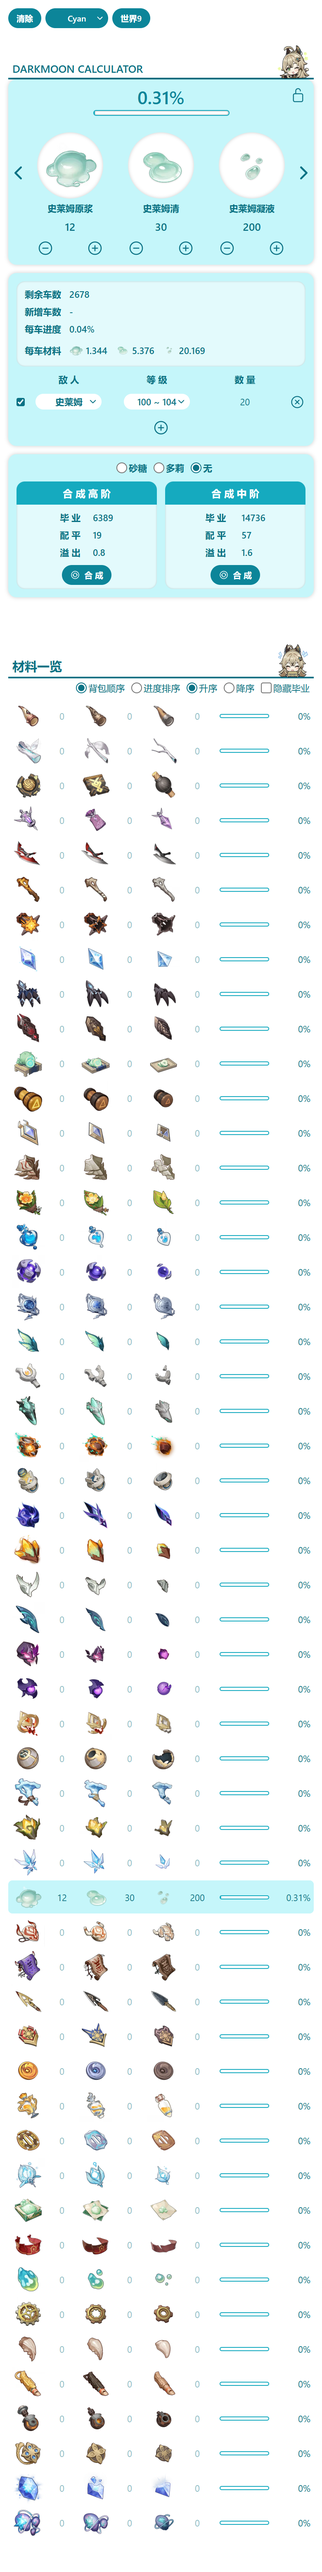
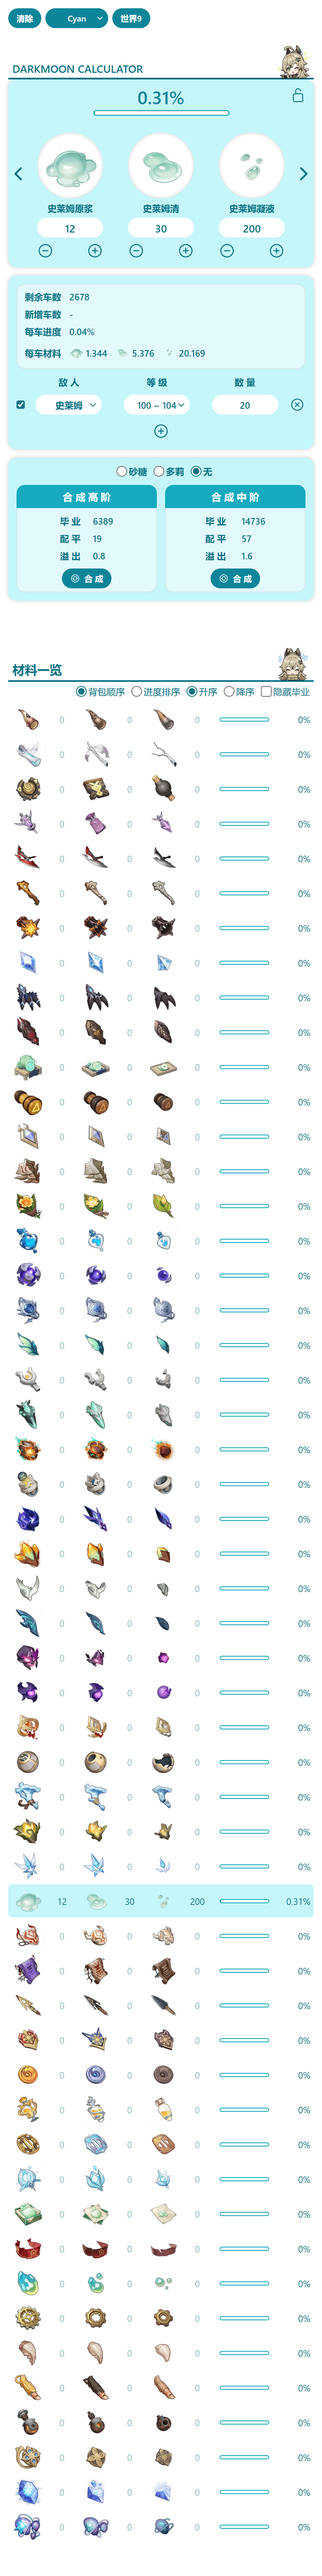
左侧输入框统一成白色胶囊
之前数字输入框是透明的（只有聚焦时出现一圈阴影），下拉框却是白色胶囊，
同一行「敌人 / 等级 / 数量」里出现两种控件形态。

- 新增 components/ui/fieldStyles.ts：
  panelField（白底胶囊、24px 高、主题色聚焦环）给材料数量和敌人数量用，
  与 Select 的 plain 形态完全一致；
  cellField（透明、4px 圆角、hover/focus 才亮）留给材料一览的 38px 窄格
- 实测三种控件统一为 24px 高：材料输入 80x24、敌人输入 100x24、下拉 100x24
- 1280x900 下左侧内容 794px 正好填满可用高度，仍不滚动；1280x700 才滚

diff --git a/src/components/ui/fieldStyles.ts b/src/components/ui/fieldStyles.ts
@@ -1,0 +1,23 @@
+/**
+ * 输入框样式。
+ *
+ * 和 `Select` 共用同一套外观：白底胶囊、24px 高、主题色描边聚焦环，
+ * 这样面板里的「敌人 / 等级 / 数量」三者看起来才是一个控件组。
+ */
+
+/** 面板里的数字输入框（材料数量、敌人数量） */
+export const panelField =
+  "h-[24px] rounded-full border-none bg-white px-[10px] " +
+  "text-center font-semibold text-c9 " +
+  "focus:shadow-[0_0_0_1px_var(--color-6)] focus:outline-none";
+
+/**
+ * 材料一览行内的紧凑输入框。
+ *
+ * 列表一格只有 38px 宽，做成白胶囊会糊成一片，所以保持透明，
+ * 用 hover / 聚焦的背景和描边来提示可编辑。
+ */
+export const cellField =
+  "h-[19px] rounded-[4px] border-none bg-transparent px-[2px] " +
+  "text-center text-[11px] text-c9 transition-colors " +
+  "hover:bg-c0 focus:bg-white focus:shadow-[0_0_0_1px_var(--color-6)] focus:outline-none";

diff --git a/src/components/MaterialList.tsx b/src/components/MaterialList.tsx
@@ -9,6 +9,7 @@ import {
   useListRows,
 } from "../store/selectors";
 import { NumberInput } from "./NumberInput";
+import { cellField } from "./ui/fieldStyles";
 import { ProgressBar } from "./ui/ProgressBar";
 
 export function MaterialList() {
@@ -178,7 +179,7 @@ export function MaterialList() {
                         next[index] = value;
                         setNumbersFor(row.id, next);
                       }}
-                      className="pointer-events-auto mx-[2px] w-[38px] rounded-[4px] border-none bg-transparent py-[2px] text-center text-[11px] text-c9 transition-colors hover:bg-c0 focus:bg-white focus:shadow-[0_0_0_1px_var(--color-6)] focus:outline-none"
+                      className={`pointer-events-auto mx-[2px] w-[38px] ${cellField}`}
                     />
                   </Fragment>
                 ))}

diff --git a/src/components/MaterialPanel.tsx b/src/components/MaterialPanel.tsx
@@ -16,6 +16,7 @@ import {
   useProgressValue,
 } from "../store/selectors";
 import { NumberInput } from "./NumberInput";
+import { panelField } from "./ui/fieldStyles";
 import { iconButton } from "./ui/buttonStyles";
 import { ProgressBar } from "./ui/ProgressBar";
 
@@ -113,7 +114,7 @@ export function MaterialPanel() {
               value={numbers[index]}
               onCommit={(value) => setNumberAt(index, value)}
               ariaLabel={`${names[index]} 数量`}
-              className="w-[80px] rounded-full border-none py-[2px] text-center text-[13px] font-semibold text-c9 focus:shadow-[0_0_2px_var(--color-9)] focus:outline-none"
+              className={`${panelField} w-[80px] text-[13px]`}
             />
 
             <div className="flex w-[80px] items-center justify-between">

diff --git a/src/components/EnemySection.tsx b/src/components/EnemySection.tsx
@@ -11,6 +11,7 @@ import {
   useEnemyStats,
 } from "../store/selectors";
 import { NumberInput } from "./NumberInput";
+import { panelField } from "./ui/fieldStyles";
 import { Select } from "./ui/Select";
 import { iconButton } from "./ui/buttonStyles";
 
@@ -136,7 +137,7 @@ export function EnemySection() {
               value={row.number}
               ariaLabel="敌人数量"
               onCommit={(value) => updateRow(index, { number: value })}
-              className="w-[100px] rounded-full border-none p-[4px] text-center text-[11px] text-c9 focus:shadow-[0_0_2px_var(--color-9)] focus:outline-none max-sm:w-[80px]"
+              className={`${panelField} w-[100px] text-[11px] max-sm:w-[80px]`}
             />
 
             <button

diff --git a/src/components/ui/Select.tsx b/src/components/ui/Select.tsx
@@ -15,7 +15,7 @@ const variantClass: Record<SelectVariant, string> = {
   // 与导航栏按钮同高同字号
   primary: "h-[24px] bg-c8 px-[10px] text-[10px] text-white",
   // 与敌人配置行的输入框、敌人下拉同一尺寸
-  plain: "bg-white px-[14px] py-[4px] text-[11px] text-c9",
+  plain: "h-[24px] bg-white px-[14px] text-[11px] text-c9",
 };
 
 /**

diff --git a/README.md b/README.md
@@ -71,7 +71,8 @@ src/
 │   └── ui/
 │       ├── buttonStyles.ts 全站统一的按钮样式
 │       ├── ProgressBar.tsx 进度条（带过渡动画与 aria 语义）
-│       └── Select.tsx      统一样式的下拉框
+│       ├── Select.tsx      统一样式的下拉框
+│       └── fieldStyles.ts  输入框样式（面板胶囊 / 清单紧凑两种）
 ├── App.tsx / main.tsx / index.css
 ```
 
@@ -440,6 +441,16 @@ Windows 上编辑器写临时文件时被文件监视器锁住。`vite.config.ts
 - 两种形态：`primary`（导航栏，24px 高 / 10px 字，与相邻按钮同尺寸）、
   `plain`（敌人配置行，白底 11px 字）。
 - 导航栏的下拉宽度从 68px 调到 76px，给自定义箭头留出位置；顺手删掉不再使用的 `selectLike`。
+
+### 2026-11-20 · 左侧输入框统一成白色胶囊
+
+- 之前数字输入框是**透明**的（只有聚焦时出现一圈阴影），而下拉框是白色胶囊 ——
+  同一行「敌人 / 等级 / 数量」里三种控件两种形态。
+- 新增 `components/ui/fieldStyles.ts`：`panelField`（白底胶囊、24px 高、主题色聚焦环）
+  给材料数量和敌人数量用，和 `Select` 的 `plain` 形态完全一致；
+  `cellField`（透明、4px 圆角、hover/focus 才亮）留给材料一览的 38px 窄格。
+- 实测三种控件的盒模型现在都是 24px 高：材料输入 80×24、敌人输入 100×24、下拉 100×24。
+- 1280×900 下左侧内容 794px 正好填满可用高度，仍不产生滚动；1280×700 才滚。
 
 ### 2026-11-20 · 材料一览高亮当前材料
 
